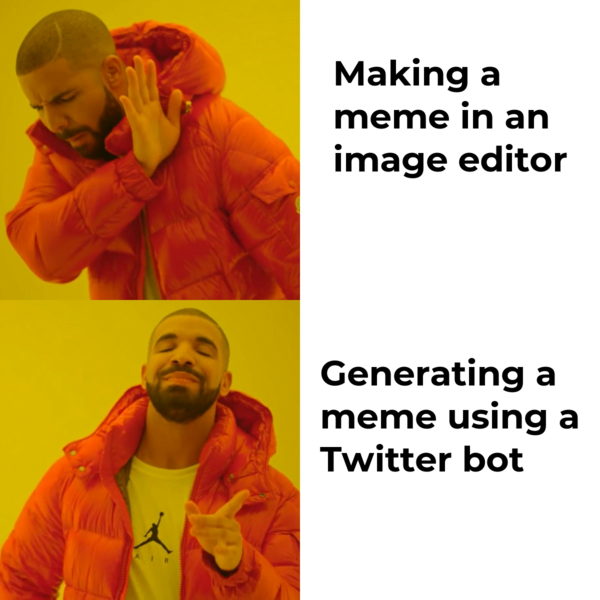
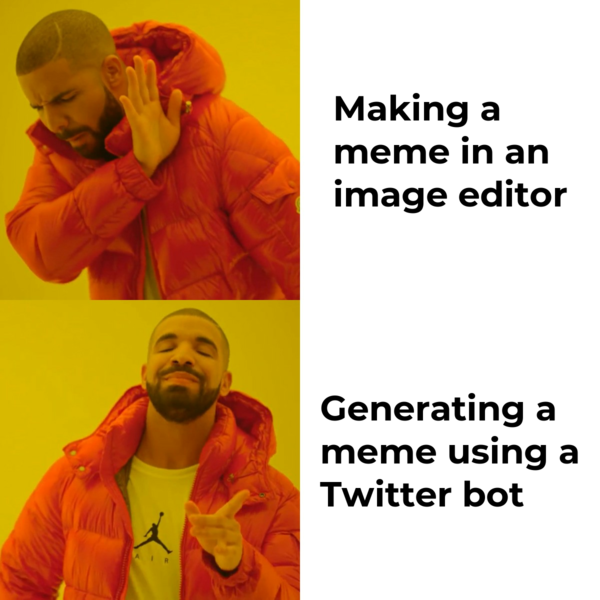
fix: text Y axis placement issues

Changed region(s): [[0.54, 0.6, 0.96, 0.87], [0.54, 0.09, 0.96, 0.36]]

diff --git a/national_memographic/_image.py b/national_memographic/_image.py
@@ -1,7 +1,7 @@
 import textwrap
 
 from wand.image import Image
-from wand.drawing import Drawing
+from wand.drawing import Drawing, FontMetrics
 
 from .common import Dims, Rect
 from .template import TextPosition, TextPositionX, TextPositionY
@@ -17,23 +17,22 @@ def draw_bounded_text(
     previous_font_size = drawing.font_size
     wrapped_text = text
 
-    def get_text_dims() -> Dims:
-        metrics = drawing.get_font_metrics(
+    def get_text_metrics() -> FontMetrics:
+        return drawing.get_font_metrics(
             image,
             wrapped_text,
             multiline=True
         )
 
-        width = metrics.text_width
-        height = metrics.text_height
-
-        return width, height
-
+    character_height = None
     text_width = None
     text_height = None
 
     while drawing.font_size > 0:
-        text_width, text_height = get_text_dims()
+        metrics = get_text_metrics()
+        character_height = metrics.character_height
+        text_width = metrics.text_width
+        text_height = metrics.text_height
 
         if text_height > bounds.height:
             drawing.font_size -= 0.75
@@ -44,7 +43,8 @@ def draw_bounded_text(
             while columns > 1:
                 columns -= 1
                 wrapped_text = "\n".join(textwrap.wrap(text, columns))
-                text_width, _ = get_text_dims()
+                metrics = get_text_metrics()
+                text_width = metrics.text_width
 
                 if text_width <= bounds.width:
                     break
@@ -67,6 +67,8 @@ def draw_bounded_text(
         y += bounds.height - text_height
     elif position.y == TextPositionY.CENTER:
         y += round((bounds.height - text_height) / 2)
+
+    y += round(character_height)
 
     drawing.text(x, y, wrapped_text)
     drawing.font_size = previous_font_size
